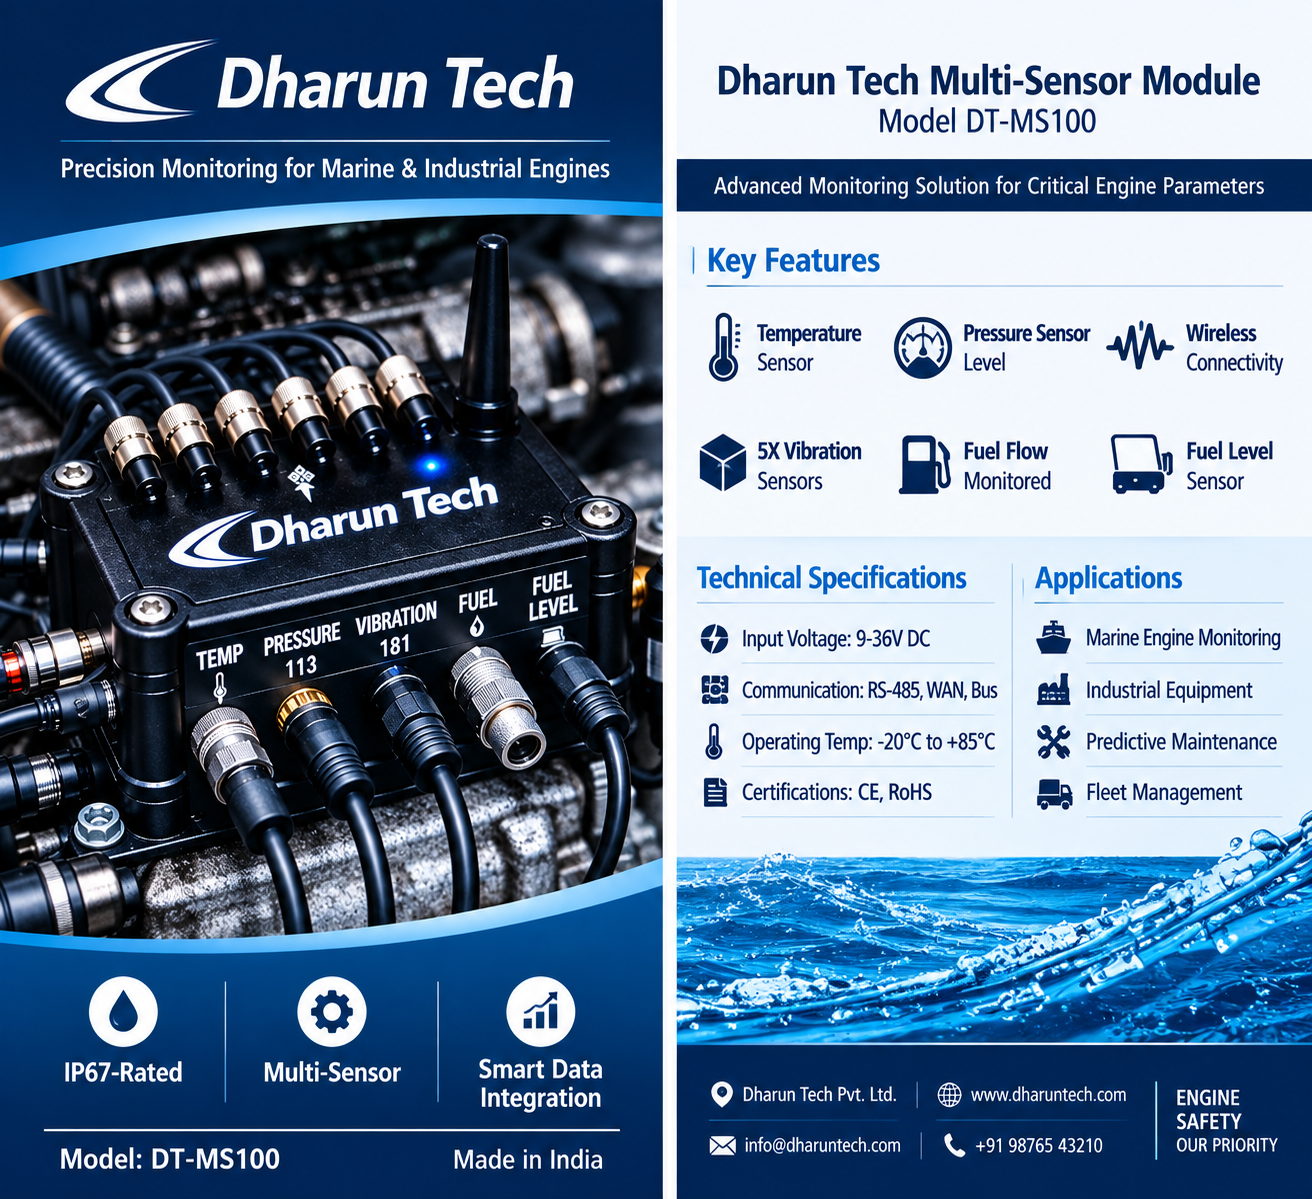
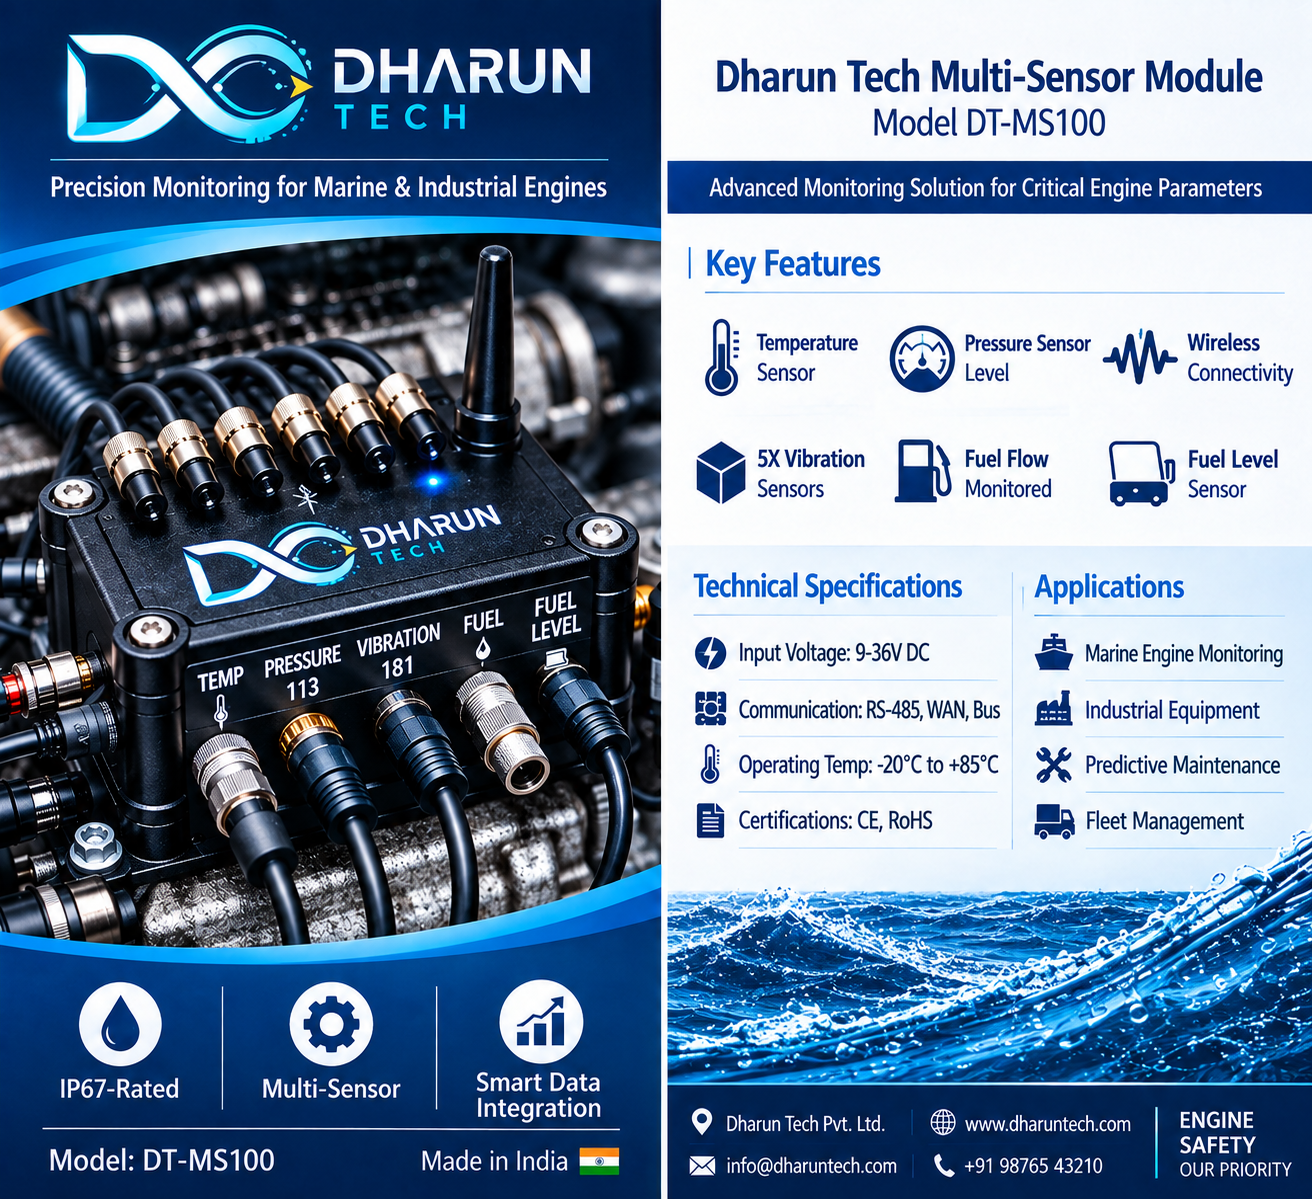
first commit

diff --git a/src/app/components/footer/footer.component.html b/src/app/components/footer/footer.component.html
@@ -1,1 +1,1 @@
-<footer class="site-footer"><div class="footer-brand"><a class="logo" href="#home" aria-label="DharunTech home"><img class="logo-image" src="assets/images/logo_text.png" alt="DharunTech"></a><p>Engineering Intelligence.<br>Building What Matters.</p></div><div><strong>Explore</strong><a href="#about">About</a><a href="#expertise">Expertise</a><a href="#products">Products</a><a href="#process">Process</a></div><div><strong>Solutions</strong><a href="#expertise">AI Solutions</a><a href="#products">Satellite Image Analysis</a><a href="#expertise">Embedded Systems</a><a href="#expertise">Hardware Engineering</a></div><div><strong>Contact</strong><a href="mailto:support@dharuntech.in">support@dharuntech.in</a><a href="tel:8294595990">8294595990</a><a href="tel:9771731882">9771731882</a><span>Muzaffarpur, Bihar, India</span></div><div class="footer-bottom">© 2026 Dharun Tech. All Rights Reserved.</div></footer>
+<footer class="site-footer"><div class="footer-brand"><a class="logo" href="#home" aria-label="DharunTech home"><img class="logo-image" src="assets/images/logo_main.png" alt="DharunTech"></a><p>Engineering Intelligence.<br>Building What Matters.</p></div><div><strong>Explore</strong><a href="#about">About</a><a href="#expertise">Expertise</a><a href="#products">Products</a><a href="#process">Process</a></div><div><strong>Solutions</strong><a href="#expertise">AI Solutions</a><a href="#products">Satellite Image Analysis</a><a href="#expertise">Embedded Systems</a><a href="#expertise">Hardware Engineering</a></div><div><strong>Contact</strong><a href="mailto:support@dharuntech.in">support@dharuntech.in</a><a href="tel:8294595990">8294595990</a><a href="tel:9771731882">9771731882</a><span>Muzaffarpur, Bihar, India</span></div><div class="footer-bottom">© 2026 Dharun Tech. All Rights Reserved.</div></footer>

diff --git a/server/server.js b/server/server.js
@@ -1,0 +1,56 @@
+require('dotenv').config();
+
+const express = require('express');
+const nodemailer = require('nodemailer');
+
+const app = express();
+const port = Number(process.env.PORT || 3000);
+const recipient = process.env.MAIL_TO || process.env.SMTP_USERNAME;
+
+const transporter = nodemailer.createTransport({
+  host: process.env.SMTP_HOST,
+  port: Number(process.env.SMTP_PORT || 587),
+  secure: process.env.SMTP_SECURE === 'true',
+  auth: {
+    user: process.env.SMTP_USERNAME,
+    pass: process.env.SMTP_PASSWORD
+  }
+});
+
+app.use(express.json({ limit: '20kb' }));
+
+app.post('/api/contact', async (request, response) => {
+  const { name, email, phone, company, service, message } = request.body;
+
+  if (!name || !email || !service || !message) {
+    return response.status(400).json({ message: 'Name, email, service and message are required.' });
+  }
+
+  try {
+    await transporter.sendMail({
+      from: process.env.SMTP_USERNAME,
+      to: recipient,
+      replyTo: email,
+      subject: `New enquiry from ${name}`,
+      text: [
+        `Name: ${name}`,
+        `Email: ${email}`,
+        `Phone: ${phone || 'Not provided'}`,
+        `Company: ${company || 'Not provided'}`,
+        `Service: ${service}`,
+        '',
+        'Message:',
+        message
+      ].join('\n')
+    });
+
+    return response.status(204).send();
+  } catch (error) {
+    console.error('Email delivery failed:', error);
+    return response.status(500).json({ message: 'Unable to send enquiry.' });
+  }
+});
+
+app.listen(port, () => {
+  console.log(`Contact API listening on http://localhost:${port}`);
+});

diff --git a/src/app/components/contact/contact.component.ts b/src/app/components/contact/contact.component.ts
@@ -1,15 +1,23 @@
 import { ChangeDetectionStrategy, Component } from '@angular/core';
+import { HttpClient } from '@angular/common/http';
 import { FormBuilder, ReactiveFormsModule, Validators } from '@angular/forms';
 @Component({selector:'app-contact',standalone:true,imports:[ReactiveFormsModule],templateUrl:'./contact.component.html',changeDetection:ChangeDetectionStrategy.OnPush})
 export class ContactComponent {
  protected submitted=false;
+ protected submitting=false;
+ protected errorMessage='';
  protected readonly form;
- constructor(private readonly fb:FormBuilder){
+ constructor(private readonly fb:FormBuilder, private readonly http:HttpClient){
    this.form=this.fb.nonNullable.group({name:['',Validators.required],email:['',[Validators.required,Validators.email]],phone:[''],company:[''],service:['',Validators.required],message:['',Validators.required]});
  }
- protected submit():void{
-   if(this.form.invalid){this.form.markAllAsTouched(); return;}
-   this.submitted=true;
-   this.form.reset();
- }
+ protected submit(): void {
+  if (this.form.invalid) {
+    this.form.markAllAsTouched();
+    return;
+  }
+
+  alert('Thank you for contacting DharunTech.\n\nEmail Sender is currently under development.');
+
+  this.form.reset();
+}
 }

diff --git a/src/styles.css b/src/styles.css
@@ -175,8 +175,8 @@ h3 span {
 }
 
 .hero-section {
-    min-height: calc(100vh - 76px);
-    padding: 8vw 8vw 7vw;
+    min-height: calc(100vh - 140px);
+    padding: 4vw 8vw 3vw;
     position: relative;
     overflow: hidden
 }
@@ -274,7 +274,12 @@ h3 span {
 
 .hero-visual {
     position: relative;
-    min-height: 480px;
+    width: min(100%, 570px);
+    height: 475px;
+    aspect-ratio: auto;
+    justify-self: end;
+    align-self: start;
+    margin-top: 60px;
     border: 1px solid var(--line);
     background: radial-gradient(circle at 50% 50%, rgba(57, 123, 255, .22), transparent 35%), linear-gradient(135deg, rgba(67, 220, 255, .05), transparent 50%);
     overflow: hidden
@@ -1134,7 +1139,13 @@ textarea {
     }
 
     .hero-visual {
-        min-height: 420px
+        width: 100%;
+        max-width: 560px;
+        height: auto;
+        aspect-ratio: 1.3 / 1;
+        justify-self: stretch;
+        align-self: center;
+        margin-top: 30px
     }
 
     .expertise-grid {
@@ -1202,7 +1213,7 @@ textarea {
     }
 
     .hero-visual {
-        min-height: 350px;
+        aspect-ratio: 1.2 / 1;
         margin-top: 20px
     }
 

diff --git a/src/app/components/contact/contact.component.html b/src/app/components/contact/contact.component.html
@@ -4,6 +4,6 @@
 <div class="form-row"><label>Phone<input formControlName="phone" type="tel" placeholder="Your phone number"></label><label>Company<input formControlName="company" type="text" placeholder="Company name"></label></div>
 <label>Service / Requirement<input formControlName="service" type="text" placeholder="What can we engineer together?"></label>
 <label>Message<textarea formControlName="message" rows="4" placeholder="Tell us about your project"></textarea></label>
-<button class="button button-primary" type="submit">Send Enquiry <span>↗</span></button>
-<p class="form-status" role="status" aria-live="polite">{{submitted ? 'Thank you. Your enquiry has been received and our team will contact you shortly.' : ''}}</p>
+<button class="button button-primary" type="submit" [disabled]="submitting">{{submitting ? 'Sending...' : 'Send Enquiry'}} <span>↗</span></button>
+<p class="form-status" role="status" aria-live="polite">{{submitted ? 'Thank you. Your enquiry has been received and our team will contact you shortly.' : errorMessage}}</p>
 </form></div></section>

diff --git a/src/app/components/header/header.component.html b/src/app/components/header/header.component.html
@@ -1,5 +1,5 @@
 <header class="site-header" id="home">
-  <a class="logo" href="#hero-eyebrow" aria-label="DharunTech home" (click)="closeMenu()"><img class="logo-image" src="assets/images/logo_text.png" alt="DharunTech"></a>
+  <a class="logo" href="#hero-eyebrow" aria-label="DharunTech home" (click)="closeMenu()"><img class="logo-image" src="assets/images/logo_main.png" alt="DharunTech"></a>
   <button class="menu-toggle" type="button" aria-label="Toggle navigation" [attr.aria-expanded]="menuOpen" (click)="toggleMenu()"><span></span><span></span><span></span></button>
   <nav class="site-nav" [class.open]="menuOpen" aria-label="Primary navigation">
     <a href="#about" (click)="closeMenu()">About</a><a href="#expertise" (click)="closeMenu()">Expertise</a><a href="#products" (click)="closeMenu()">Products</a><a href="#process" (click)="closeMenu()">Process</a><a href="#contact" (click)="closeMenu()">Contact</a><a class="nav-cta" href="#contact" (click)="closeMenu()">Let's Talk <span>↗</span></a>

diff --git a/src/index.html b/src/index.html
@@ -9,7 +9,7 @@
   <meta property="og:title" content="DharunTech | Engineering Intelligence. Building What Matters.">
   <meta property="og:description" content="AI, software, electronics, embedded systems and hardware product engineering.">
   <meta property="og:type" content="website">
-  <link rel="icon" type="image/png" href="assets/images/logo1.png">
+  <link rel="icon" type="image/png" href="assets/images/logo.png">
   <link rel="preconnect" href="https://fonts.googleapis.com">
   <link rel="preconnect" href="https://fonts.gstatic.com" crossorigin>
   <link href="https://fonts.googleapis.com/css2?family=Manrope:wght@400;500;600;700;800&family=Space+Grotesk:wght@400;500;600;700&display=swap" rel="stylesheet">

diff --git a/src/main.ts b/src/main.ts
@@ -1,10 +1,12 @@
 import { bootstrapApplication } from '@angular/platform-browser';
+import { provideHttpClient } from '@angular/common/http';
 import { provideRouter, withInMemoryScrolling } from '@angular/router';
 import { AppComponent } from './app/app.component';
 import { routes } from './app/app.routes';
 
 bootstrapApplication(AppComponent, {
   providers: [
+    provideHttpClient(),
     provideRouter(
       routes,
       withInMemoryScrolling({
